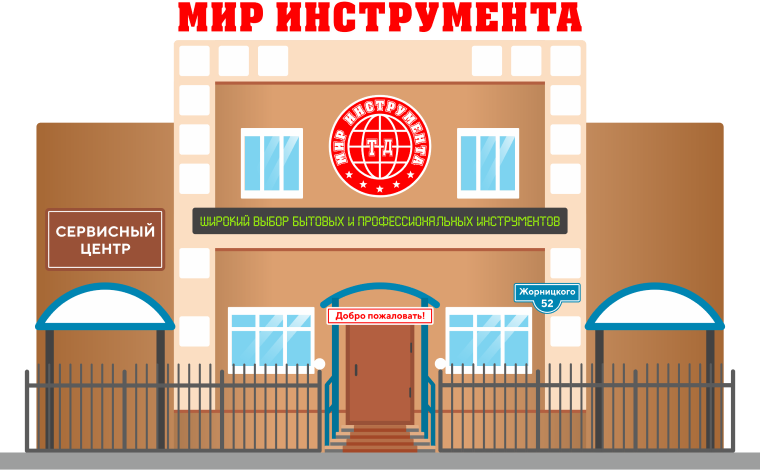
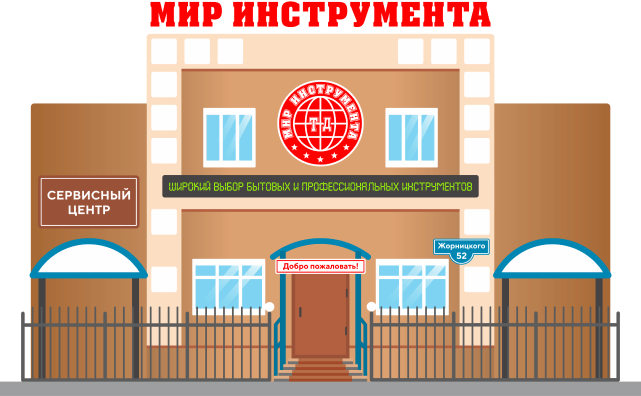
"feat: end adaptive version 768px"

diff --git a/assets/styles/style.css b/assets/styles/style.css
@@ -13,14 +13,13 @@
 }
 html {
   scroll-behavior: smooth;
+  background: linear-gradient(270deg, #FFD7D7 0%, #FFD7D7 0.01%, #FFFFFF 51.04%, #D9E8FF 100%);
 }
 
 body {
-  /* min-width: 280px;
-  height: 100vh; */
   position: relative;
-
   background: url(/assets/img/Фон.png) no-repeat;
+  background-position: center 0;
 }
 
 ul,
@@ -37,6 +36,16 @@ li {
 }
 
 /* MAIN FIRMS START */
+
+.top-mob__btn-block,
+.top-mob__left-btn,
+.top-mob__right-btn {
+  display: none;
+}
+
+.adaptive-bg {
+  display: none;
+}
 
 .section-company {
   display: flex;
@@ -422,14 +431,13 @@ font-size: 14px;
 line-height: 16px;
 text-align: center;
 
-/* position: absolute;
-top: 93%; */
 }
 .tools-item__description {
   display: none;
 
   z-index: 100;
 }
+
 /* 
 .benzopila {
   width: 125px;
@@ -503,3 +511,156 @@ gap: 10px;
   height: 34px;
 }
 
+
+/* MEDIA QUARIES */
+  @media (max-width: 1410px) {
+    .tools-items {
+      justify-content: space-around;
+    }
+  }
+
+  @media (max-width:1330px) {
+    body {
+      background-position: center;
+    }
+    .tools-left {
+      margin-right: 5px;
+    }
+    .tools-right {
+      margin-left: 5px;
+    }
+    
+    .footer-items {
+      flex-wrap: wrap;
+    }
+  }
+
+  @media (max-width:940px) {
+
+    .footer-items {
+      justify-content: flex-start;
+    }
+
+    .section__footer-content {
+     padding: 30px 0;
+    }
+
+    .top-mob__btn-block {
+      display: flex;
+      justify-content: space-between;
+      padding:  0 20px;
+    }
+    
+    
+    .top-mob__left-btn a,
+    .top-mob__right-btn a {
+      color: #FFFFFF;
+    }
+    
+    .top-mob__left-btn:hover,
+    .top-mob__right-btn:hover {
+      transform: scale(1.1);
+    }
+    
+    .top-mob__left-btn {
+      display: flex;
+      justify-content: center;
+      align-items: center;
+      text-align: center;
+      width: 100%;
+      max-width: 328px;
+    height: 88px;
+    background: #002047;
+    border-radius: 8px;
+    
+    font-weight: 600;
+    font-size: 20px;
+    line-height: 24px;
+    transition: transform .2s;
+    color: #FFFFFF;
+    }
+    
+    .top-mob__right-btn {
+      display: flex;
+      align-items: center;
+      justify-content: center;
+      text-align: center;
+    
+      max-width: 328px;
+      width: 100%;
+    height: 88px;
+    background: #FE0000;
+    border-radius: 8px;
+    
+    font-weight: 600;
+    font-size: 18px;
+    line-height: 28px;
+    color: #FFFFFF;
+    transition: transform .2s;
+    }
+
+    .tools-left__btn,
+    .tools-right__btn {
+      display: none;
+    }
+
+    body {
+      background: none;
+    }
+
+    .adaptive-bg {
+      display: flex;
+      justify-content: center;
+      
+      margin: 49px 0;
+    }
+
+    .section-company {
+      height: 100%;
+      align-items: center;
+    }
+
+    .company-right {
+      height: 100%;
+      align-items: center;
+    }
+    .company-left {
+      align-items: center;
+    }
+
+    .tools-items {
+      flex-direction: column;
+    }
+
+    .section-tools {
+      justify-content: space-around;
+      margin-top: 50px;
+    }
+
+    .tools-item {
+      max-width: 252px;
+      width: 100%;
+      height: 172px;
+    }
+
+    .tools-item img {
+      margin-bottom: 10px;
+    }
+
+    .tools-item__description {
+      display: flex;
+      justify-content: center;
+      text-align: center;
+      align-items: center;
+    width:100%;
+      height: 50px;
+      background: #002047;
+      border-radius: 4px;
+      padding: 14px;
+      color: #FFFFFF;
+
+      font-size: 14px;
+      line-height: 18px;
+      /* white-space: nowrap; */
+    }
+  }

diff --git a/index.html b/index.html
@@ -13,6 +13,21 @@
   </header>
   <main class="main">
     <div class="wrapper">
+      <div class="adaptive-bg">
+        <img src="/assets/img/Здание 5 1.png" alt="bg-mir__instrumenta">
+      </div>
+      <div class="top-mob__btn-block">
+        <div class="top-mob__left-btn">
+          <a href="#">
+            Отделы <br>STIHL, Makita, Bosch
+          </a>
+        </div>
+        <div class="top-mob__right-btn">
+          <a href="#" >
+            Отделы ручного, бензоэлектроинструмента и расходных материалов
+          </a>
+        </div>
+      </div>
         <div class="section-company">
           <div class="company-left">
             <div class="company-left__border bosch">
